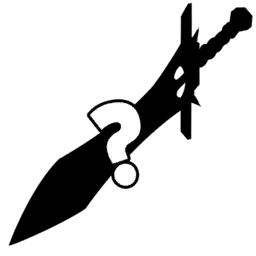
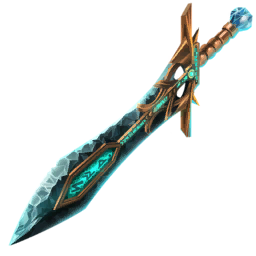
3.5.4
Relic Update
Pharoah Package Init

Changed region(s): [[0.0312, 0.0, 1.0, 0.9688]]

diff --git a/css/icons.css b/css/icons.css
@@ -751,7 +751,7 @@ span.icon.item.masamune {
 span.icon.item.souleater {
   background-image: url( "../images/items/swords/souleater.png" );
 }
-span.icon.item.??? {
+span.icon.item.relicblade {
   background-image: url( "../images/items/swords/relicblade.png" );
 }
 span.icon.item.sawblade {
@@ -3234,6 +3234,27 @@ span.icon.item.royaluniform {
 }
 span.icon.item.weddingring {
   background-image: url( "../images/items/rings/weddingring.png" );
+}
+span.icon.item.scarabshield {
+  background-image: url( "../images/items/shields/scarabshield.png" );
+}
+span.icon.item.snakeheaddress {
+  background-image: url( "../images/items/hats/snakeheaddress.png" );
+}
+span.icon.item.pharaohflail {
+  background-image: url( "../images/items/maces/pharaohflail.png" );
+}
+span.icon.item.pharaohcrook {
+  background-image: url( "../images/items/staves/pharaohcrook.png" );
+}
+span.icon.item.ankhamulet {
+  background-image: url( "../images/items/pendants/ankhamulet.png" );
+}
+span.icon.item.viperheaddress {
+  background-image: url( "../images/items/helmets/viperheaddress.png" );
+}
+span.icon.item.relicarquebus {
+  background-image: url( "../images/items/guns/relicarquebus.png" );
 }
 
 span.icon.break {
